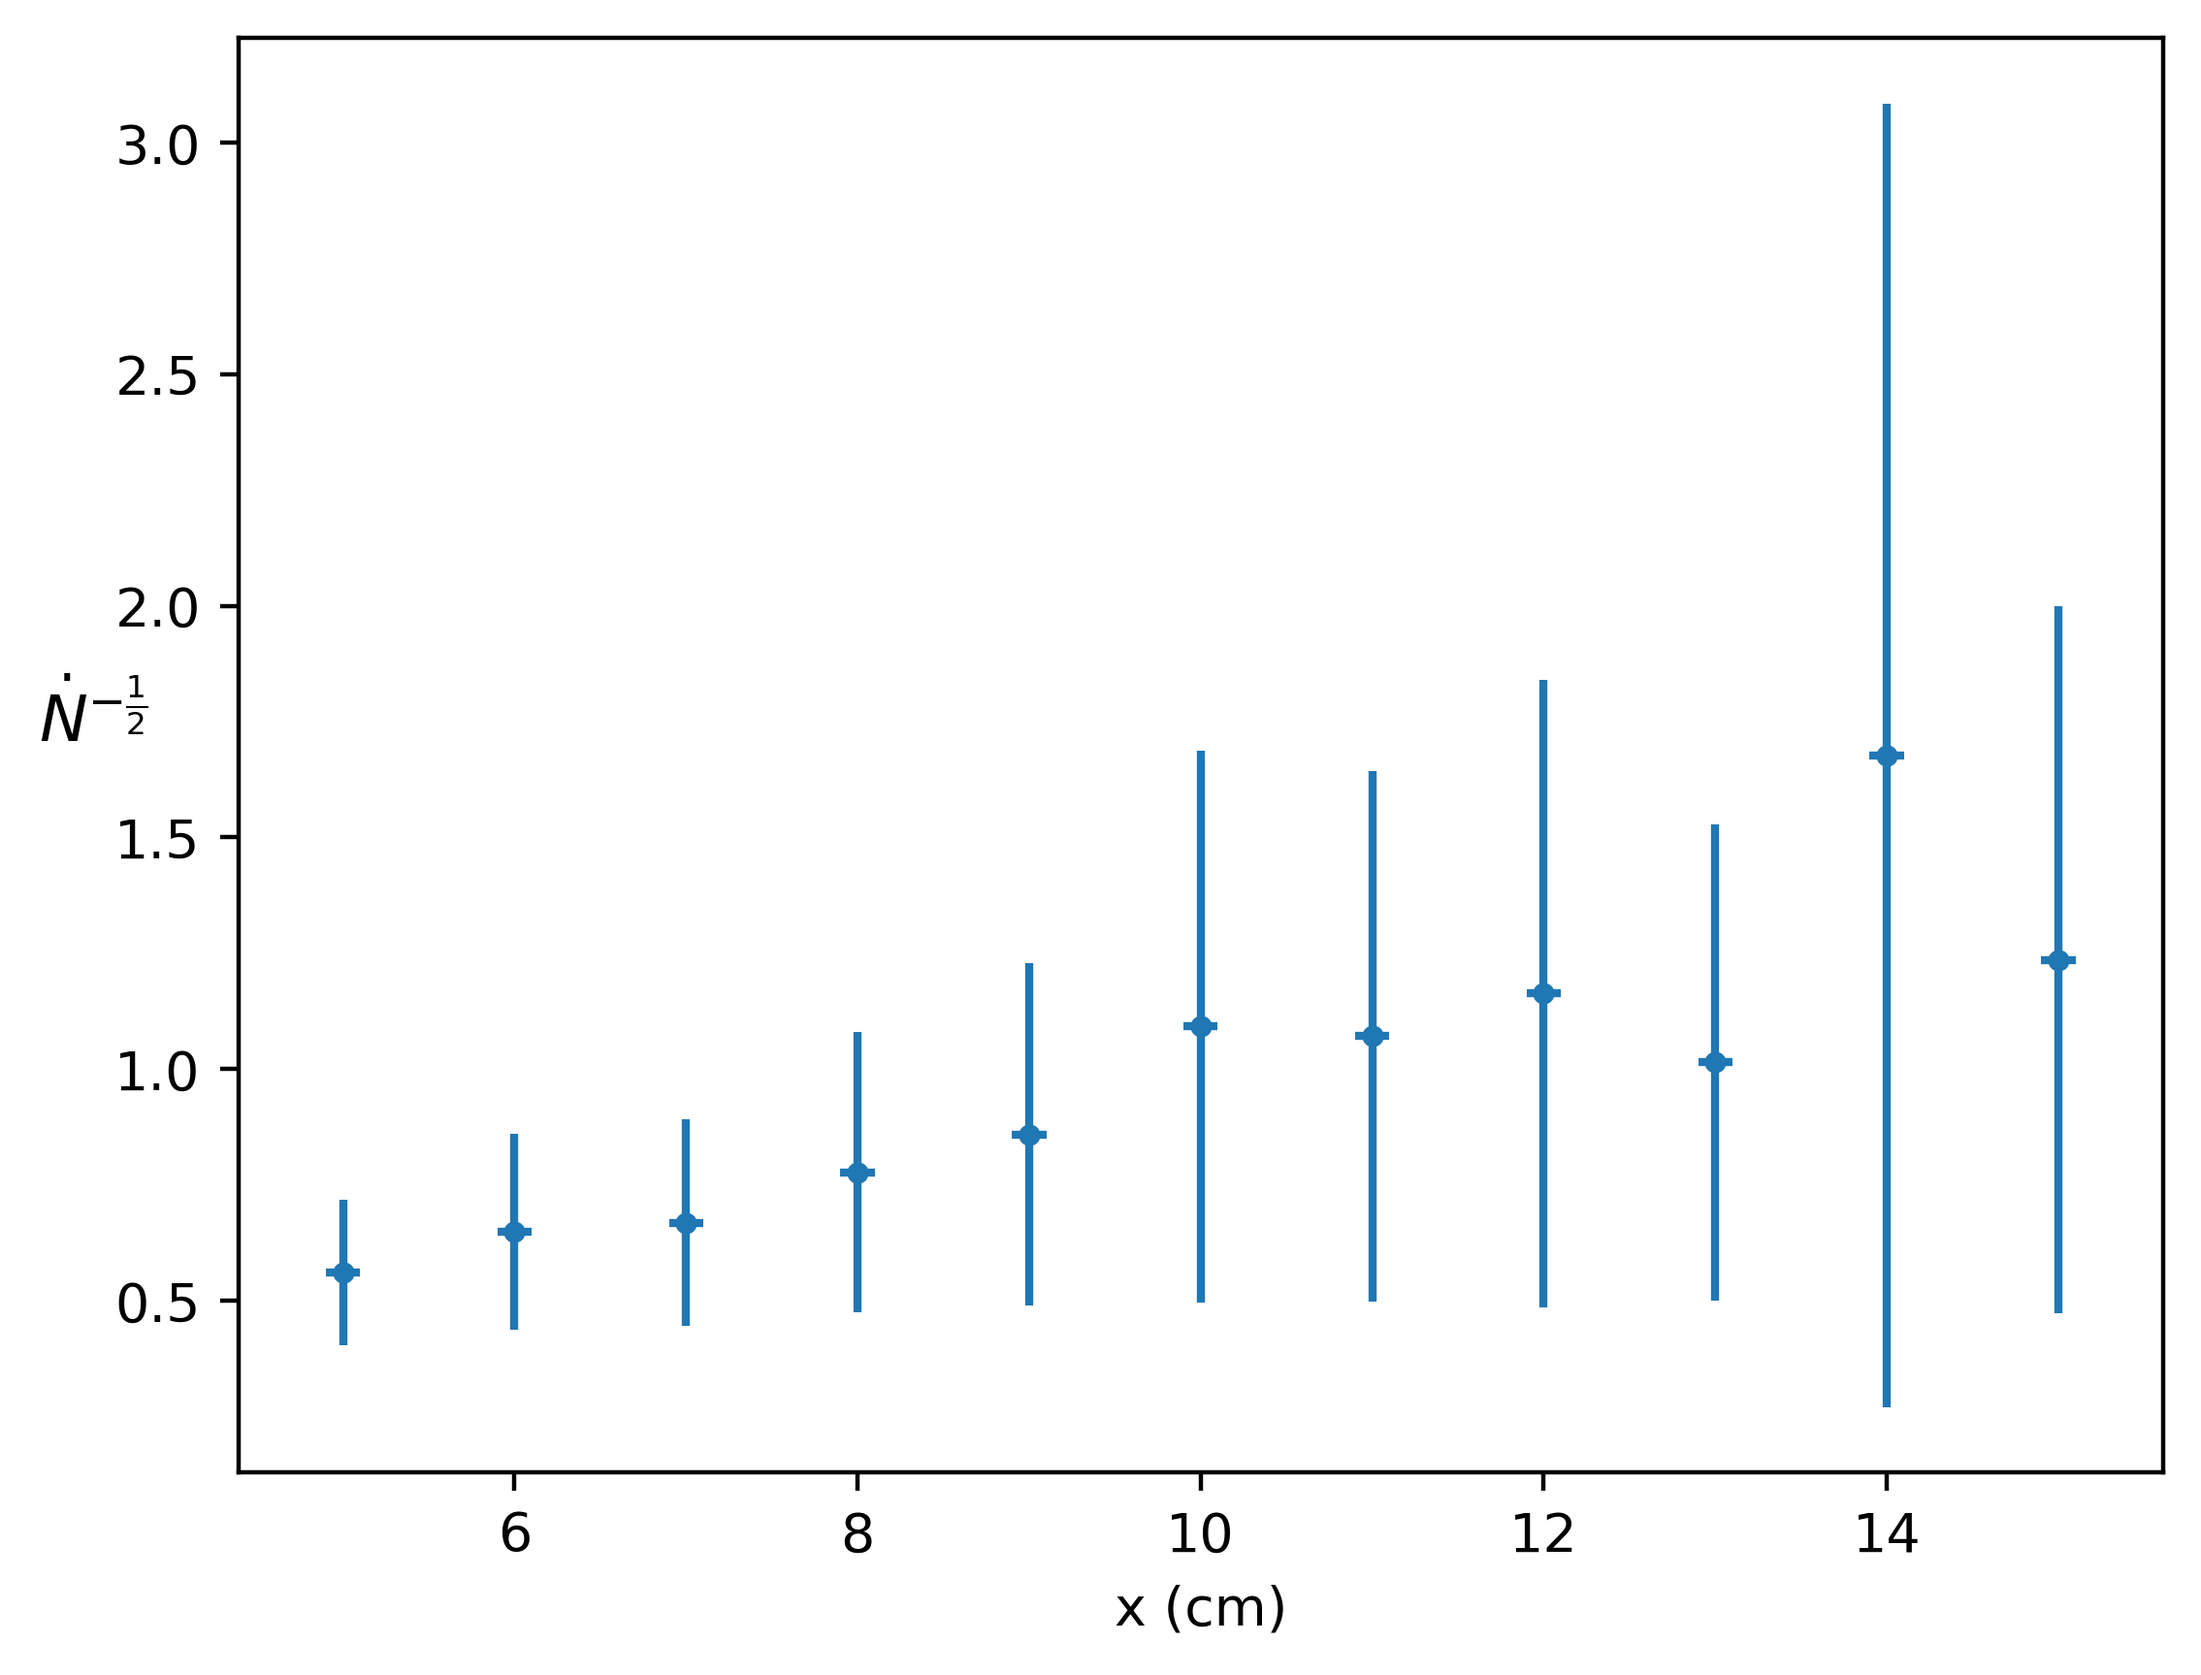
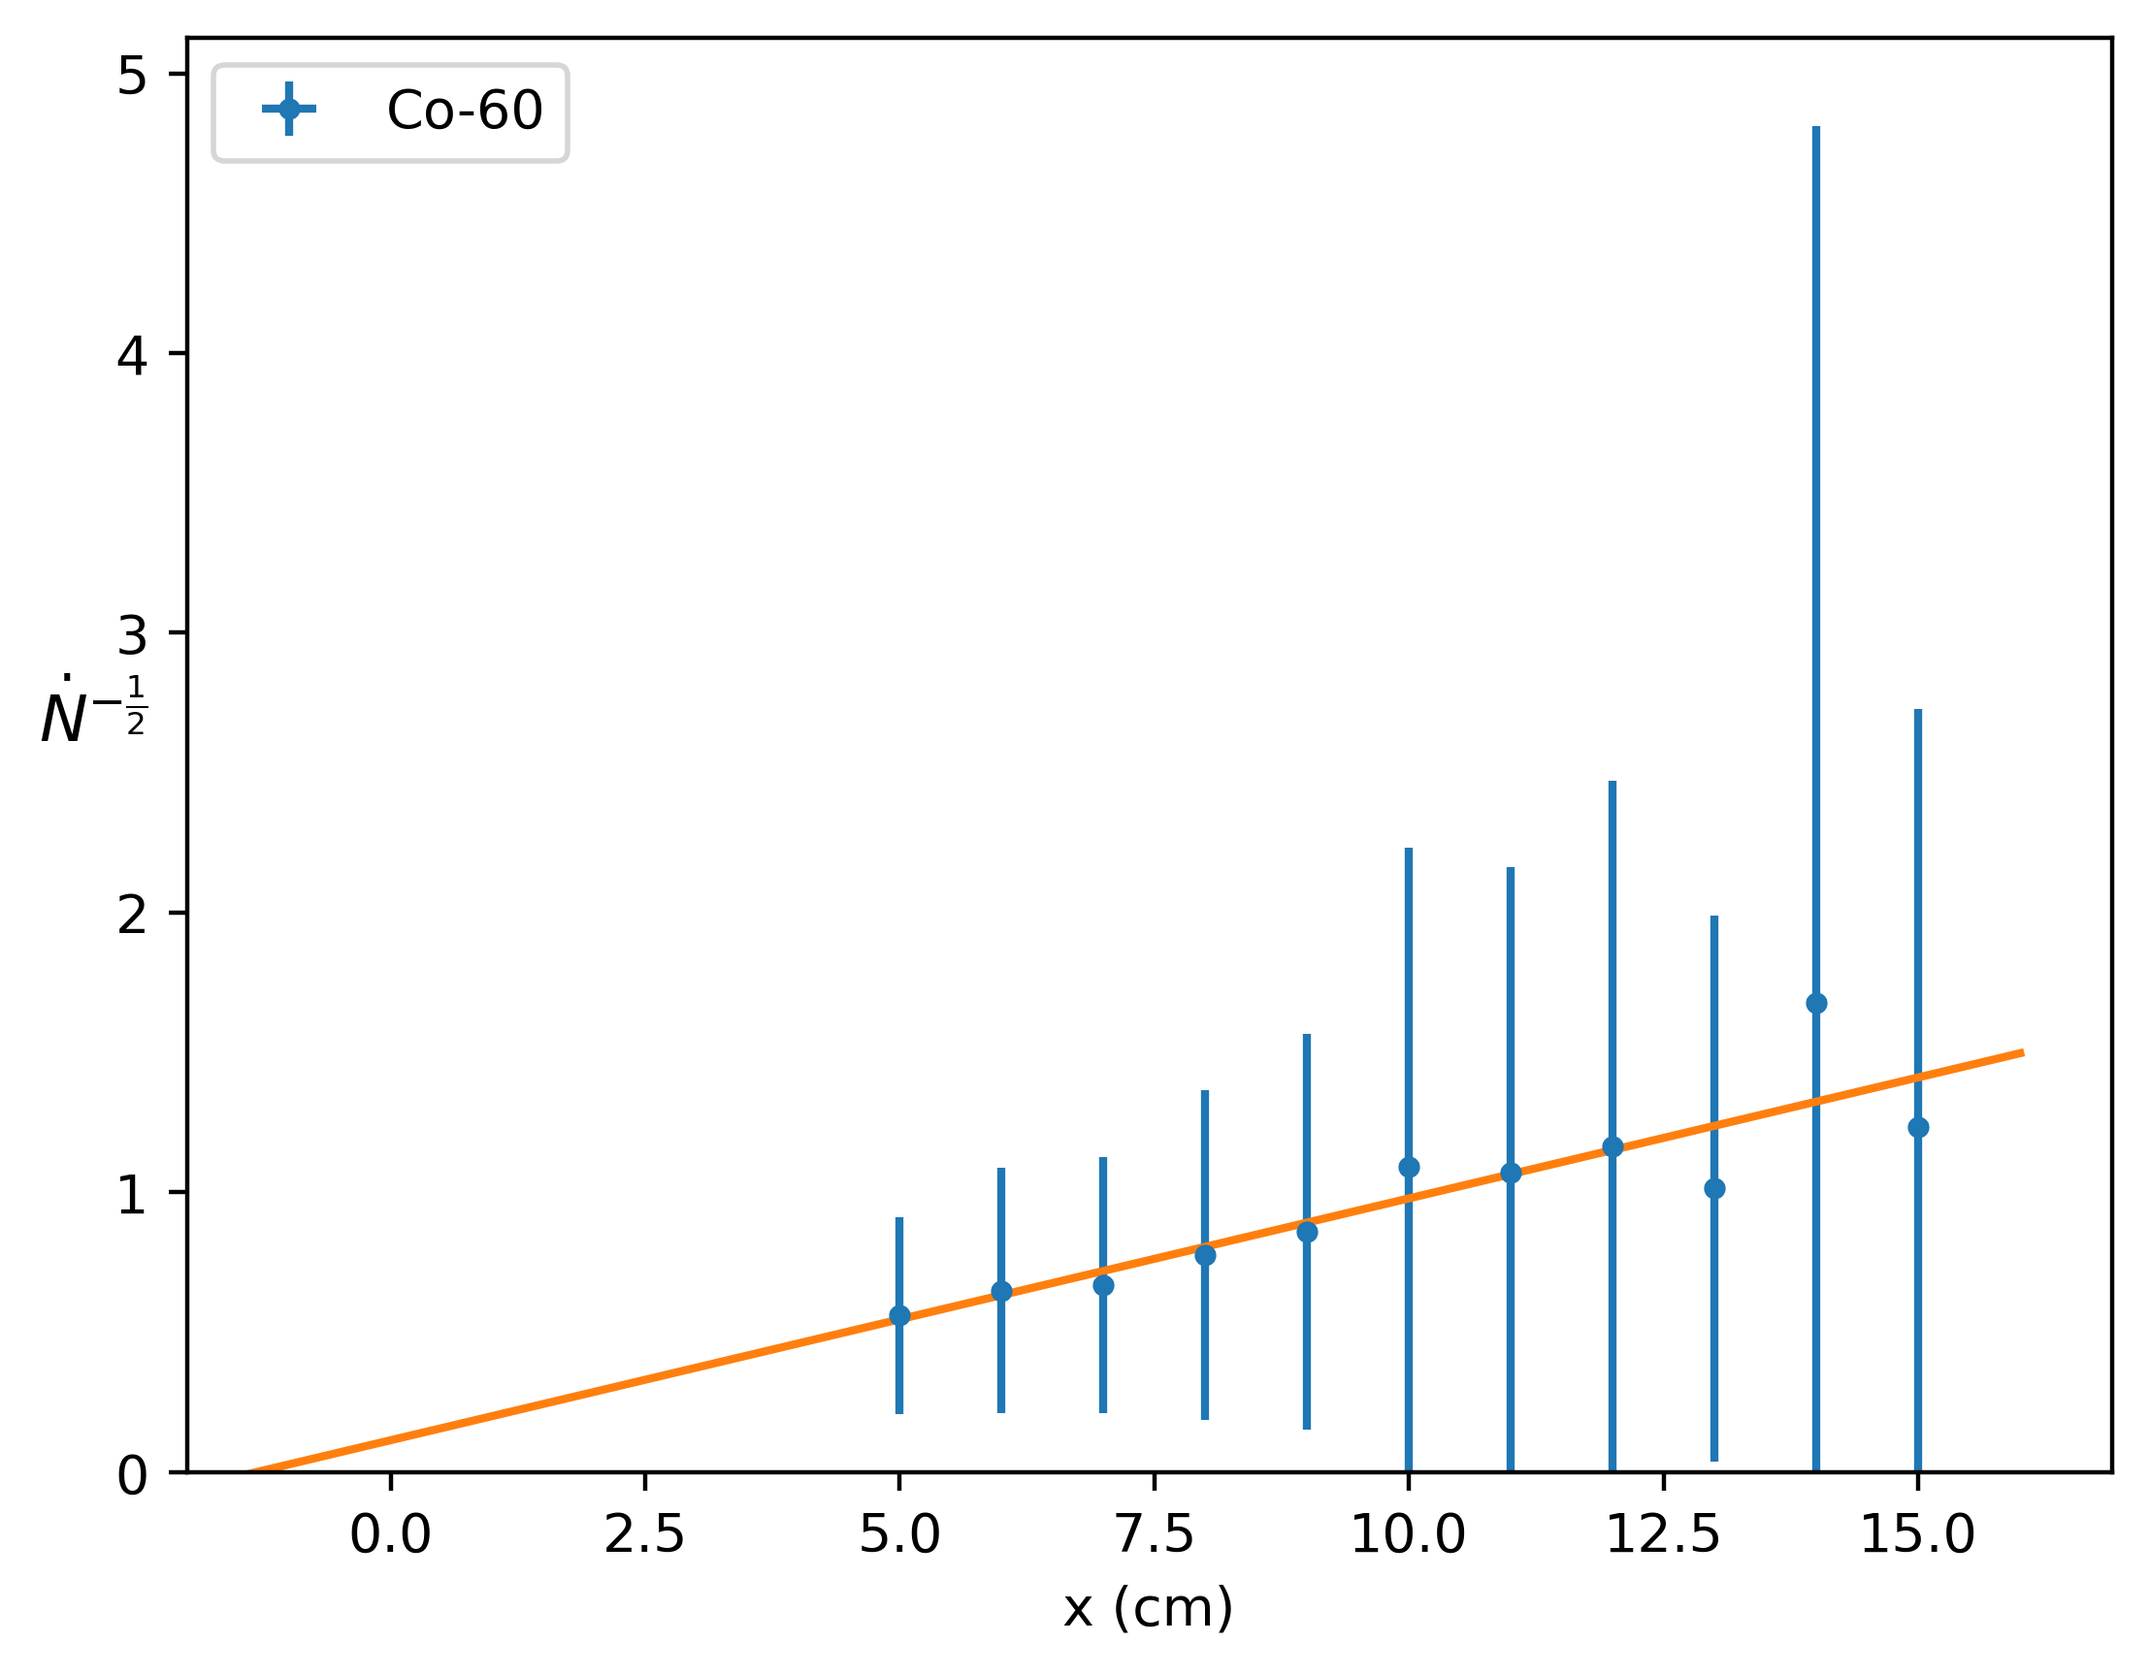
added linear fits, calculation of x0

diff --git a/dosimetry.py b/dosimetry.py
@@ -55,12 +55,39 @@ def Ndot_exponent(N):
     y=N**(-0.5)
     return y
 
-#error in Ndot ^-1/2, takes N, t and error in t
+#error in Ndot ^-1/2, takes N, error in N, t and error in t
 def err_Ndot_exponent(N,t,dt):
     Ndot_exp=Ndot_exponent(N)
     dN=np.sqrt(N)
     y=Ndot_exp*np.sqrt(((-0.5*dN)/N)**2+((-0.5*dt)/t)**2)
     return y
+
+#Function to take N counts (background included), measured for t seconds and return Ndot ^-1/2 and error.
+def calculate(N,t):
+    B=background_N                                  #measured background counts
+    bt=background_time                              #time measuring background in s
+    N_s=N/t                                         #count rate
+    dt=1/t                                          #error of 1s in measured time.
+    N_s_err=np.sqrt(N_s**2+dt**2)                   #err in count rate
+    B_s=B/bt                                        #background count rate
+    dbt=1/bt                                        # error of 1s in measured time
+    B_s_err=np.sqrt(B_s**2+dbt**2)                  #err in background count rate
+    N_mod=N_s-B_s                                   #count rate with background subtracted
+    N_mod_err=np.sqrt((N_s_err)**2 + (B_s_err)**2)  #error in count rate with background subtracted
+    N_dot_exp=N_mod**(-0.5)                  #raising count rate with subtracted background to power of -1/2
+    err_Ndot_exp=0.5*(N_mod**(-3/2))*N_mod_err      #error in Ndot ^-1/2 --> error in counts, time, background counts, background time and propagation via formulas all accounted for.
+    return N_dot_exp, err_Ndot_exp
+
+def linear(x,a,c):
+    y=c+a*x
+    return y
+
+def y_fit_error(a,da,x,dx,c,dc):
+    y=a*x+c
+    dy=y*np.sqrt((da/a)**2 + (dx/x)**2 + (dc/c)**2)
+    return dy
+
+
 '''
 Plotting distance measurements
 '''
@@ -97,30 +124,113 @@ plt.figure(3)
 plt.errorbar(distance,Na_x_N,np.sqrt(Na_x_N),0.1,'.')
 plt.xlabel('distance (cm)')
 plt.ylabel('$\dot N$',rotation='horizontal',fontsize='large')
+plt.legend()
 plt.savefig('plots/Na_dist_1s.png',dpi=400,bbox_inches='tight')
+'''
+N^-1/2
+'''
+
+distance_2=np.linspace(-2,16,300)
+popt_Cs, pcov_Cs = curve_fit(linear, distance, calculate(Cs_x_counts,60)[0])#, bounds=(0, [3., 1., 0.5]))
+Cs_fit_y=popt_Cs[0]*distance_2 + popt_Cs[1]
+Cs_perr = np.sqrt(np.diag(pcov_Cs))
+print('Cs_popt',popt_Cs)
+print('Cs_perr',Cs_perr)
+i=0
+while i < len(distance_2):
+    if Cs_fit_y[i] < 1e-3 and Cs_fit_y[i] > -1e-3:
+        Cs_x0=distance_2[i]
+        Cs_y_x0=Cs_fit_y[i]
+        i=i+1
+    else:
+        i=i+1
+
+print('Cs','x0=',Cs_x0,'y0=',Cs_y_x0)
+
 
 plt.figure(4)
-plt.errorbar(distance,Ndot_exponent(Cs_x_N),err_Ndot_exponent(Cs_x_N,t,dt),dx,'.')
+plt.errorbar(distance,calculate(Cs_x_counts,60)[0],calculate(Cs_x_counts,60)[1],dx,'.',label='Cs-137')
+plt.plot(distance_2,Cs_fit_y)
 plt.xlabel('x (cm)')
 plt.ylabel(r'$\dot N^{-\frac{1}{2}}$',fontsize='large',rotation='horizontal')
+plt.legend(loc='upper left')
+plt.ylim(0)
+plt.xlim(-1.5)
 plt.savefig('plots/Cs_dist_mod.png',dpi=400,bbox_inches='tight')
 
+
+
+popt_Co, pcov_Co = curve_fit(linear, distance, calculate(Co_x_counts,60)[0])#, bounds=(0, [3., 1., 0.5]))
+Co_fit_y=popt_Co[0]*distance_2 + popt_Co[1]
+
+i=0
+while i < len(distance_2):
+    if Co_fit_y[i] < 1e-2 and Co_fit_y[i] > -1e-2:
+        Co_x0=distance_2[i]
+        Co_y_x0=Co_fit_y[i]
+        i=i+1
+    else:
+        i=i+1
+
+print('Co','x0=',Co_x0,'y0=',Co_y_x0)
+
 plt.figure(5)
-plt.errorbar(distance,Ndot_exponent(Co_x_N),err_Ndot_exponent(Co_x_N,t,dt),dx,'.')
+plt.errorbar(distance,calculate(Co_x_counts,60)[0],calculate(Co_x_counts,60)[1],dx,'.',label='Co-60')
+plt.plot(distance_2,Co_fit_y)
 plt.xlabel('x (cm)')
 plt.ylabel(r'$\dot N^{-\frac{1}{2}}$',fontsize='large',rotation='horizontal')
+plt.ylim(0)
+plt.xlim(-2)
+plt.legend(loc='upper left')
 plt.savefig('plots/Co_dist_mod.png',dpi=400,bbox_inches='tight')
 
+
+popt_Cs2, pcov_Cs2 = curve_fit(linear, distance, calculate(Cs2_x_counts,60)[0])#, bounds=(0, [3., 1., 0.5]))
+Cs2_fit_y=popt_Cs2[0]*distance_2 + popt_Cs2[1]
+
+i=0
+while i < len(distance_2):
+    if Cs2_fit_y[i] < 1e-2 and Cs2_fit_y[i] > -1e-2:
+        Cs2_x0=distance_2[i]
+        Cs2_y_x0=Cs2_fit_y[i]
+        i=i+1
+    else:
+        i=i+1
+
+print('Cs2','x0=',Cs2_x0,'y0=',Cs2_y_x0)
+
 plt.figure(6)
-plt.errorbar(distance,Ndot_exponent(Cs2_x_N),err_Ndot_exponent(Cs2_x_N,t,dt),dx,'.')
+plt.errorbar(distance,calculate(Cs2_x_counts,60)[0],calculate(Cs2_x_counts,60)[1],dx,'.',label='Cs-137 (source 2)')
+plt.plot(distance_2,Cs2_fit_y)
 plt.xlabel('x (cm)')
 plt.ylabel(r'$\dot N^{-\frac{1}{2}}$',fontsize='large',rotation='horizontal')
+plt.legend(loc='upper left')
+plt.ylim(0)
+plt.xlim(0)
 plt.savefig('plots/Cs2_dist_mod.png',dpi=400,bbox_inches='tight')
 
+popt_Na, pcov_Na = curve_fit(linear, distance, calculate(Na_x_counts,60)[0])#, bounds=(0, [3., 1., 0.5]))
+Na_fit_y=popt_Na[0]*distance_2 + popt_Na[1]
+
+i=0
+while i < len(distance_2):
+    if Na_fit_y[i] < 1e-3 and Na_fit_y[i] > -1e-3:
+        Na_x0=distance_2[i]
+        Na_y_x0=Na_fit_y[i]
+        i=i+1
+    else:
+        i=i+1
+
+print('Na','x0=',Na_x0,'y0=',Na_y_x0)
+
 plt.figure(7)
-plt.errorbar(distance,Ndot_exponent(Na_x_N),err_Ndot_exponent(Na_x_N,t,dt),dx,'.')
+plt.errorbar(distance,calculate(Na_x_counts,60)[0],calculate(Na_x_counts,60)[1],dx,'.',label='Na-22')
+plt.plot(distance_2,Na_fit_y)
 plt.xlabel('x (cm)')
 plt.ylabel(r'$\dot N^{-\frac{1}{2}}$',fontsize='large',rotation='horizontal')
+plt.legend(loc='upper left')
+plt.ylim(0)
+plt.xlim(0)
 plt.savefig('plots/Na_dist_mod.png',dpi=400,bbox_inches='tight')
 
 '''
